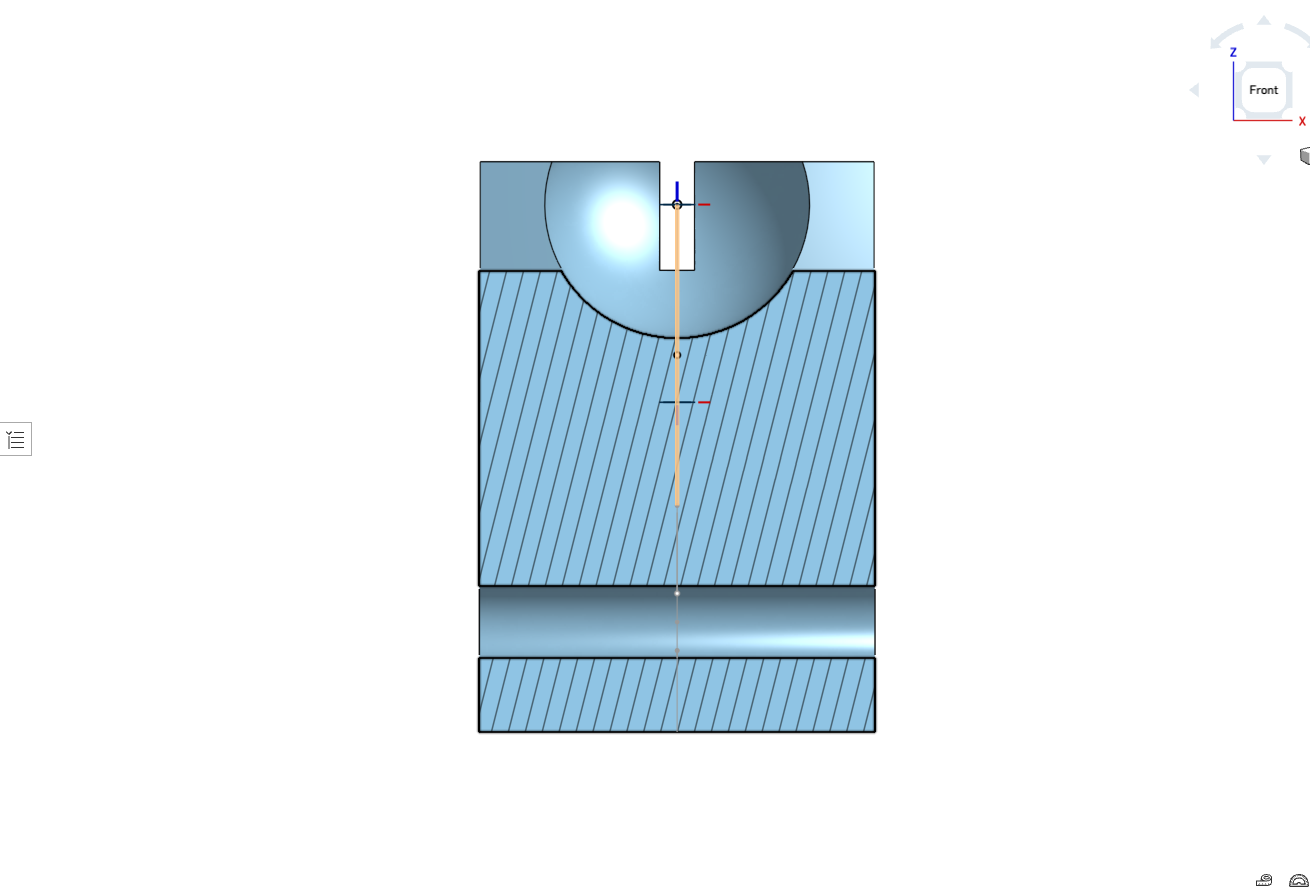
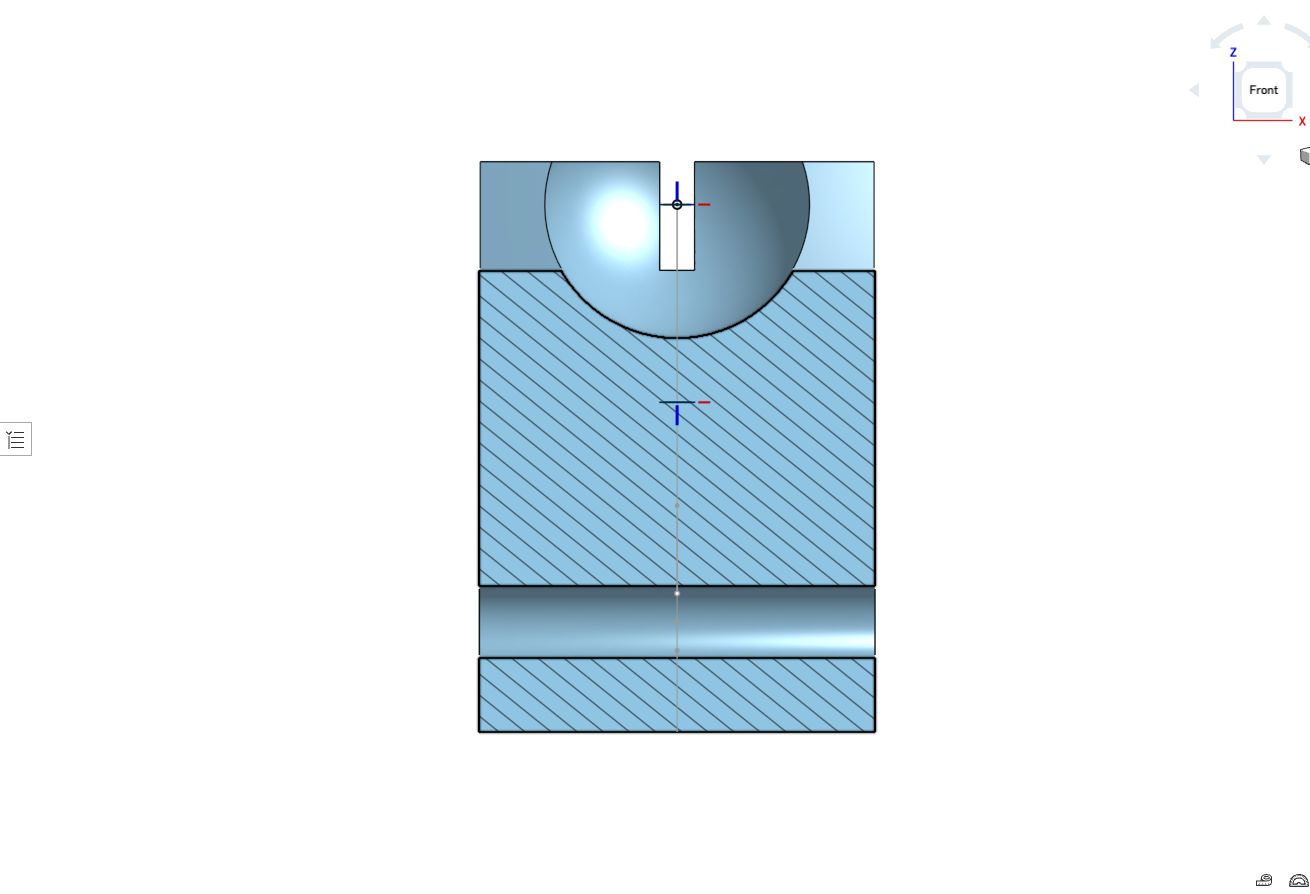
Three section frames carried the session; one is retaken, two are tasked
Asked to show the frames, eight of the twenty-four turned out to have been placed
into the briefs without ever being opened. Three of those eight are section
screenshots with the session showing through: the gripper had a selected edge
drawn orange down the part, the lower limb a face outlined orange, the body a
mate connector lit with its manipulator and a name tooltip over the shoulder.

The cause is a fixed deselect point. onshape_gui.clear clicks EMPTY = (300, 900)
to drop the selection, and on a part that fills the canvas that point is on the
model, so it selects rather than clears. The capture script left the cursor at
(900, 520) as well, which is over the geometry, so what was under it stayed
hovered. shadedviews cannot do either -- it renders server-side with no session,
which is why the seventeen non-section frames are clean.

The gripper is retaken with a click on a checked-empty point and the cursor
parked at (20, 20), verified by onshape_screen.selected reporting zero, and
replaced. The body resisted two retakes and the lower limb's retake has not been
looked at, so both are task 226 rather than a claim. That task also carries the
lower limb's section plane: it is cut on Front, which passes through the relief
slit and shows none of the blade, the same reason the hinge's section is on
Right.

verification-lessons.md gains the rule, which is about the route rather than the
tool: a server render needs no hygiene and a browser screenshot needs all of it,
[…]

Changed region(s): [[0.3664, 0.2416, 0.6718, 0.6644], [0.3664, 0.7248, 0.6718, 0.8154]]

diff --git a/.docs/verification-lessons.md b/.docs/verification-lessons.md
@@ -122,6 +122,33 @@ reads would have agreed. Two identical readings feel like confirmation and are n
 out a transient. What separates *the work is missing* from *the work is parked* is one field that
 was already in the response.
 
+## A GUI frame carries whatever the session was showing
+
+**Deselect by clicking a point you have checked is empty, park the cursor outside the canvas,
+and count the selected pixels before you keep the frame.**
+
+The survey's seven section frames are browser screenshots, and three came back with the session
+showing through. `cad-gripper-section.png` had a selected edge drawn orange down the middle of the
+part. `cad-l-limb-section.png` had a whole face outlined orange. `cad-body-section.png` had a mate
+connector lit with its manipulator and a name tooltip floating over the shoulder.
+
+**The cause is a fixed deselect point.** `onshape_gui.clear` clicks `EMPTY = (300, 900)` to drop
+the selection, and on a part that fills the canvas that point is on the model, so the click selects
+rather than clears. The capture script compounded it by leaving the cursor at (900, 520), which is
+over the geometry, so the part under it stayed hovered and its tooltip stayed up.
+
+**`shadedviews` cannot do this.** It renders server-side with no session, which is why the
+seventeen `cad-*` frames that are not sections came back clean. The rule follows the route: a
+server render needs no hygiene, a browser screenshot needs all of it.
+
+**`onshape_screen.selected` counts the orange.** It is one call, it runs on the frame you are about
+to keep, and it turns "looks clean" into a number. Clicking an empty point and parking the cursor
+at (20, 20) took the gripper's count from lit to zero.
+
+**None of this was caught by looking at the survey's output**, because eight of the twenty-four
+frames were placed into the briefs without being looked at at all. A frame nobody opens is worth
+what a figure nobody reads is worth.
+
 ## Bearing on the course
 
 Two of these are student-facing and belong in the step files:
